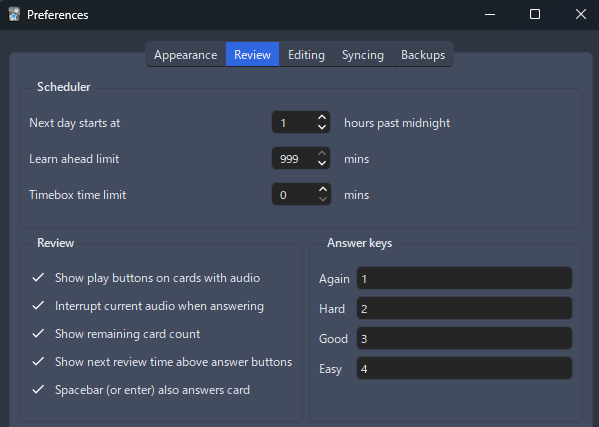
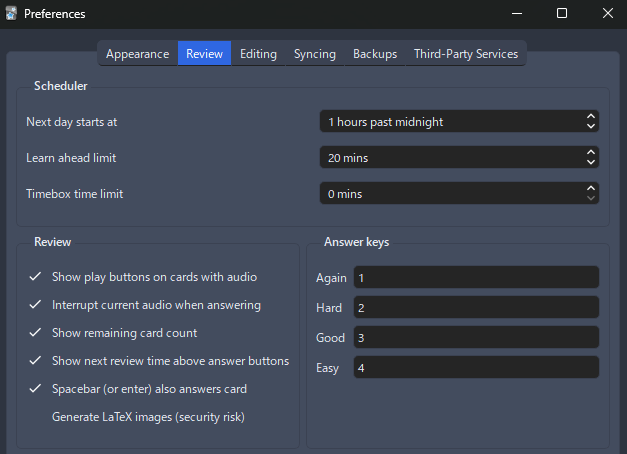
$updated info

diff --git a/docs/jp-lazy-guide/changelog.md b/docs/jp-lazy-guide/changelog.md
@@ -17,7 +17,8 @@ hide:
 
 - Anki [settings](setupAnki.md/#__tabbed_1_2) updated
 	- [Anki 24.11](https://apps.ankiweb.net/) is now available with `FSRS 5` update
-	- For existing users, all the changes are: 
+	- For existing users, all the changes are:
+		- `Tools` > `Preferences` > `Learn ahead limit` is set back to default `20 minutes`
 		- `Learning Steps` and `Relearning Steps` is now `Empty`
 		- `Review Sort Order: Descending retrievability`
 		- Yes, you need to `Optimize` again and `reschedule all cards`
